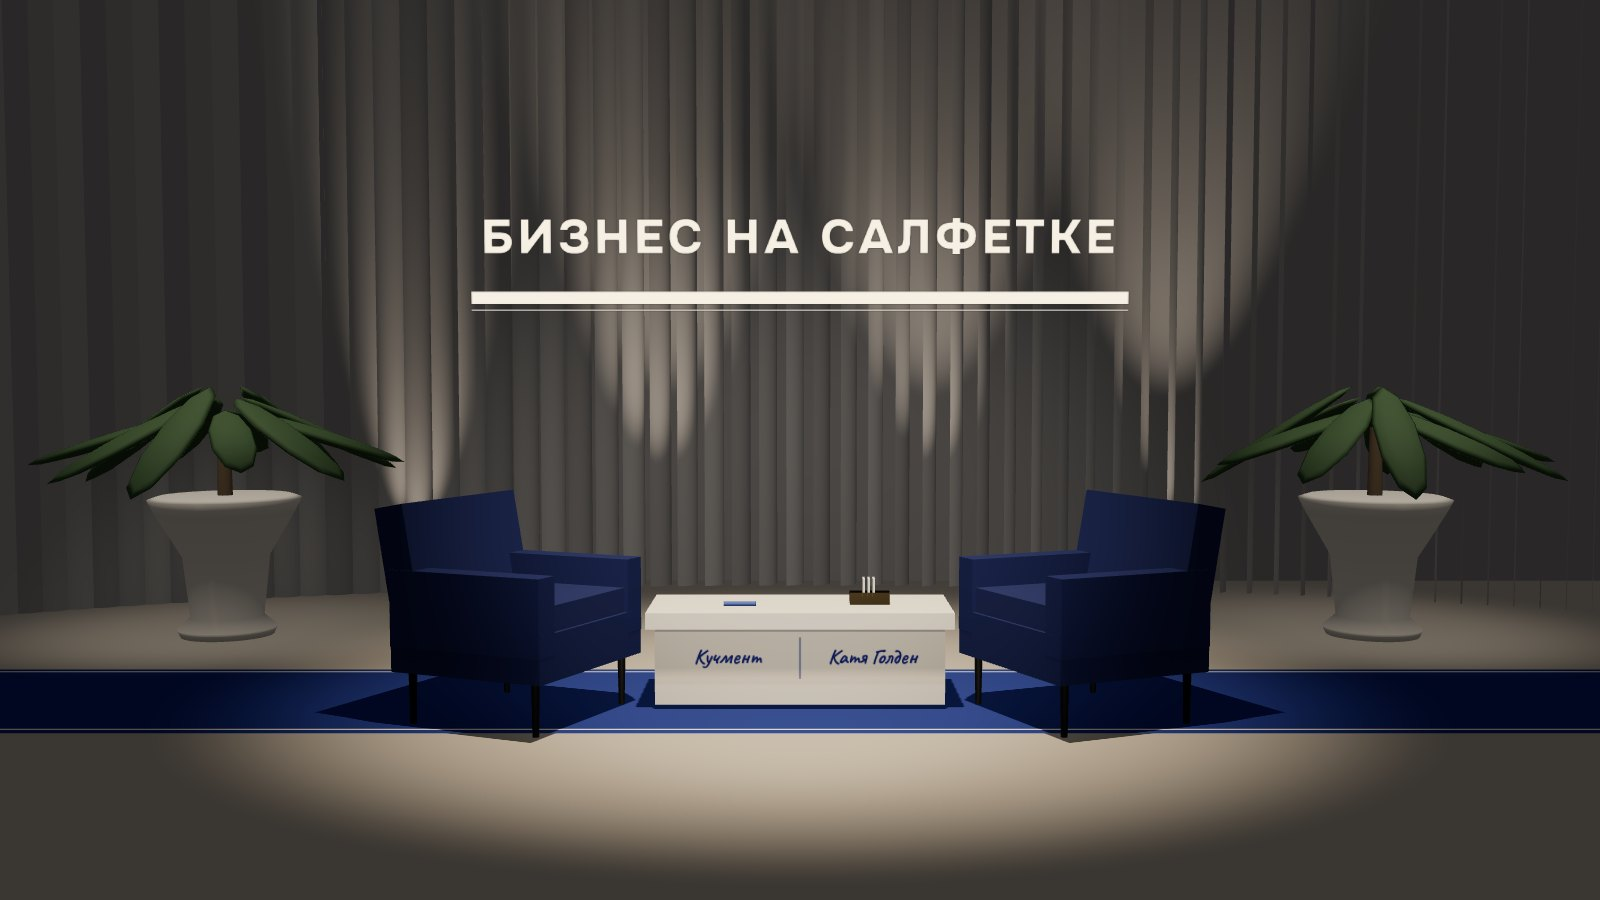
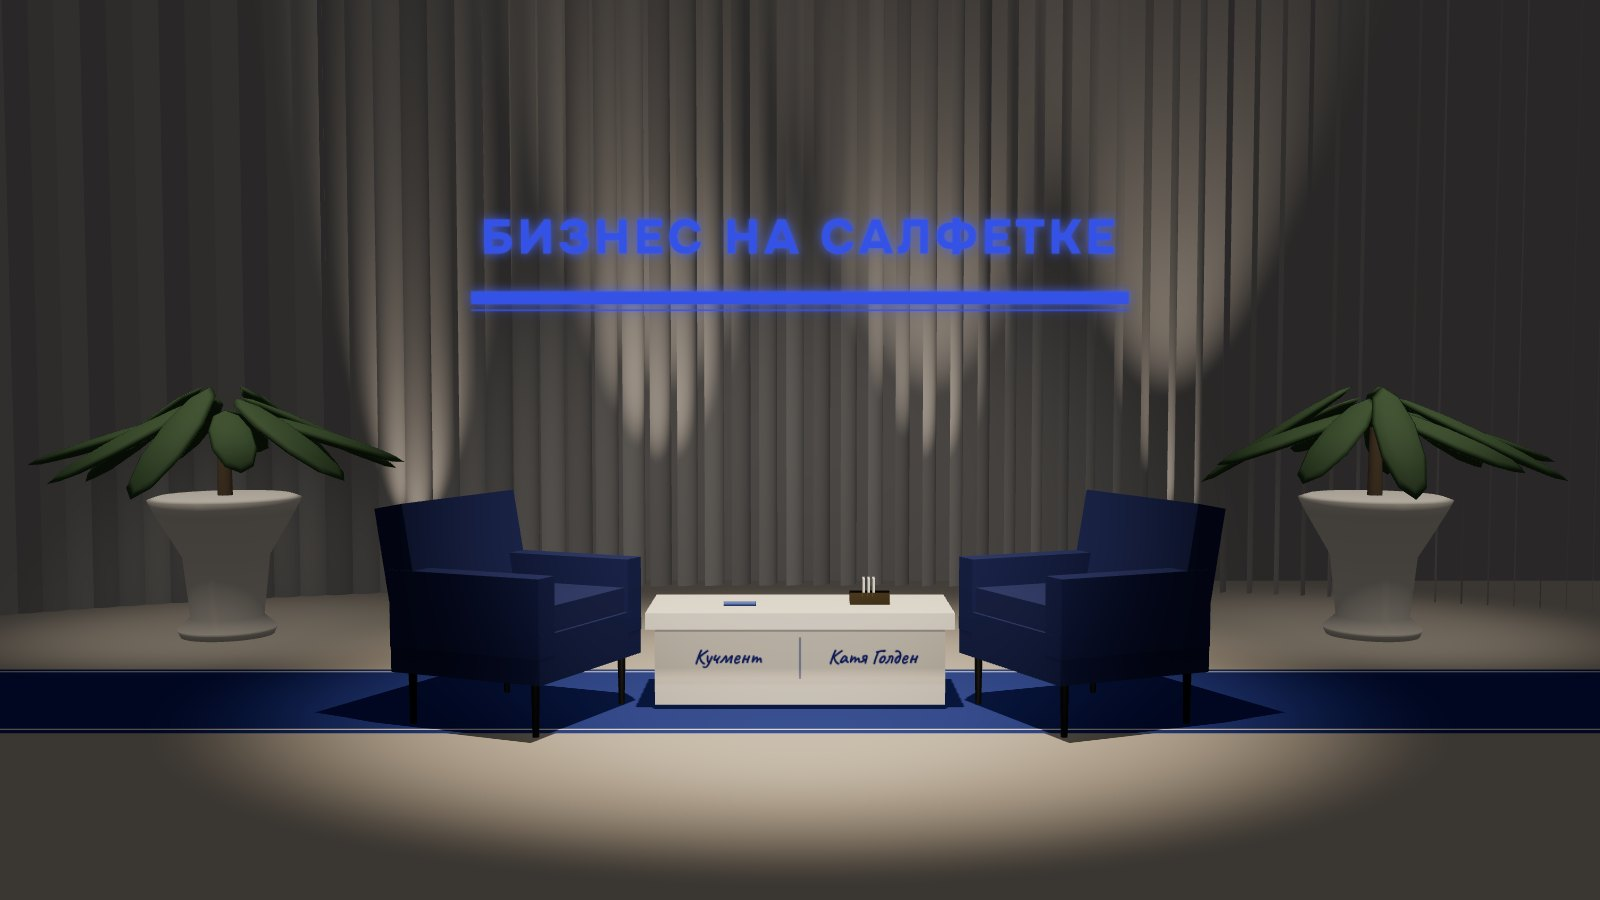
Синяя надпись логотипа на шторах
Claude-Session: https://claude.ai/code/session_01JqA9mxb2UcCAa9NfNrfw51

Changed region(s): [[0.2812, 0.2178, 0.7188, 0.3733]]

diff --git a/scenes.js b/scenes.js
@@ -175,14 +175,14 @@
     [-2.8,-1,1,2.8].forEach(x=>{const u=new T.SpotLight(0xffcf9e,1.1,7,Math.PI/9,.9,1.4);u.position.set(x,.1,-3.2);u.target.position.set(x*1.05,3.6,-4);scene.add(u,u.target)});
     [-3.6,3.6].forEach(x=>{const pl=new T.SpotLight(0xffe0b8,.8,6,Math.PI/8,.8,1.3);pl.position.set(x,4.5,-.6);pl.target.position.set(x,1,-1.6);scene.add(pl,pl.target)});
     const fontS='"Onest", "Inter", Arial, sans-serif',hand='"Marck Script", Caveat, cursive';
-    function logoC(){return cv(2048,512,(x,w,h)=>{x.clearRect(0,0,w,h);x.fillStyle='#f6f4ef';x.textAlign='center';x.textBaseline='middle';x.font='800 128px '+fontS;try{x.letterSpacing='10px'}catch(e){}
+    function logoC(){return cv(2048,512,(x,w,h)=>{x.clearRect(0,0,w,h);x.fillStyle='#3552e6';x.shadowColor='rgba(70,100,255,.85)';x.shadowBlur=28;x.textAlign='center';x.textBaseline='middle';x.font='800 128px '+fontS;try{x.letterSpacing='10px'}catch(e){}
       x.fillText('БИЗНЕС НА САЛФЕТКЕ',w/2,h*.4);x.fillRect(150,h*.66,w-300,34);x.fillRect(150,h*.66+48,w-300,4)})}
     function logoB(){return cv(1024,1024,(x,w,h)=>{x.clearRect(0,0,w,h);const S=840,r=22,n=Math.round(S/(2*r)),st=S/n,o=(w-S)/2;
       x.fillStyle='#f6f4ef';x.beginPath();x.moveTo(o,o);for(let i=0;i<n;i++)x.arc(o+st*(i+.5),o,st/2,Math.PI,0);for(let i=0;i<n;i++)x.arc(o+S,o+st*(i+.5),st/2,-Math.PI/2,Math.PI/2);for(let i=0;i<n;i++)x.arc(o+S-st*(i+.5),o+S,st/2,0,Math.PI);for(let i=0;i<n;i++)x.arc(o,o+S-st*(i+.5),st/2,Math.PI/2,Math.PI*1.5);x.fill();
       x.strokeStyle='#1d3592';x.lineWidth=5;x.setLineDash([4,22]);x.lineCap='round';x.strokeRect(o+70,o+70,S-140,S-140);x.setLineDash([]);
       x.fillStyle='#1d3592';x.textAlign='center';x.textBaseline='alphabetic';x.font='800 138px '+fontS;x.fillText('БИЗНЕС',w/2,400);x.fillText('НА',w/2,540);x.font='170px '+hand;x.fillText('салфетке',w/2,710);
       x.lineWidth=10;x.beginPath();x.moveTo(300,750);x.bezierCurveTo(430,730,600,770,724,740);x.stroke()})}
-    const lcMat=new T.MeshBasicMaterial({transparent:true,toneMapped:false,color:0xfff3e2});
+    const lcMat=new T.MeshBasicMaterial({transparent:true,toneMapped:false,color:0xffffff});
     const lc=new T.Mesh(new T.PlaneGeometry(5.6,1.4),lcMat);lc.position.set(0,2.45,-3.25);scene.add(lc);
     const lbMat=new T.MeshStandardMaterial({transparent:true,roughness:.9});
     const lb=new T.Mesh(new T.PlaneGeometry(1.6,1.6),lbMat);lb.position.set(0,2.35,-3.25);lb.castShadow=true;scene.add(lb);
